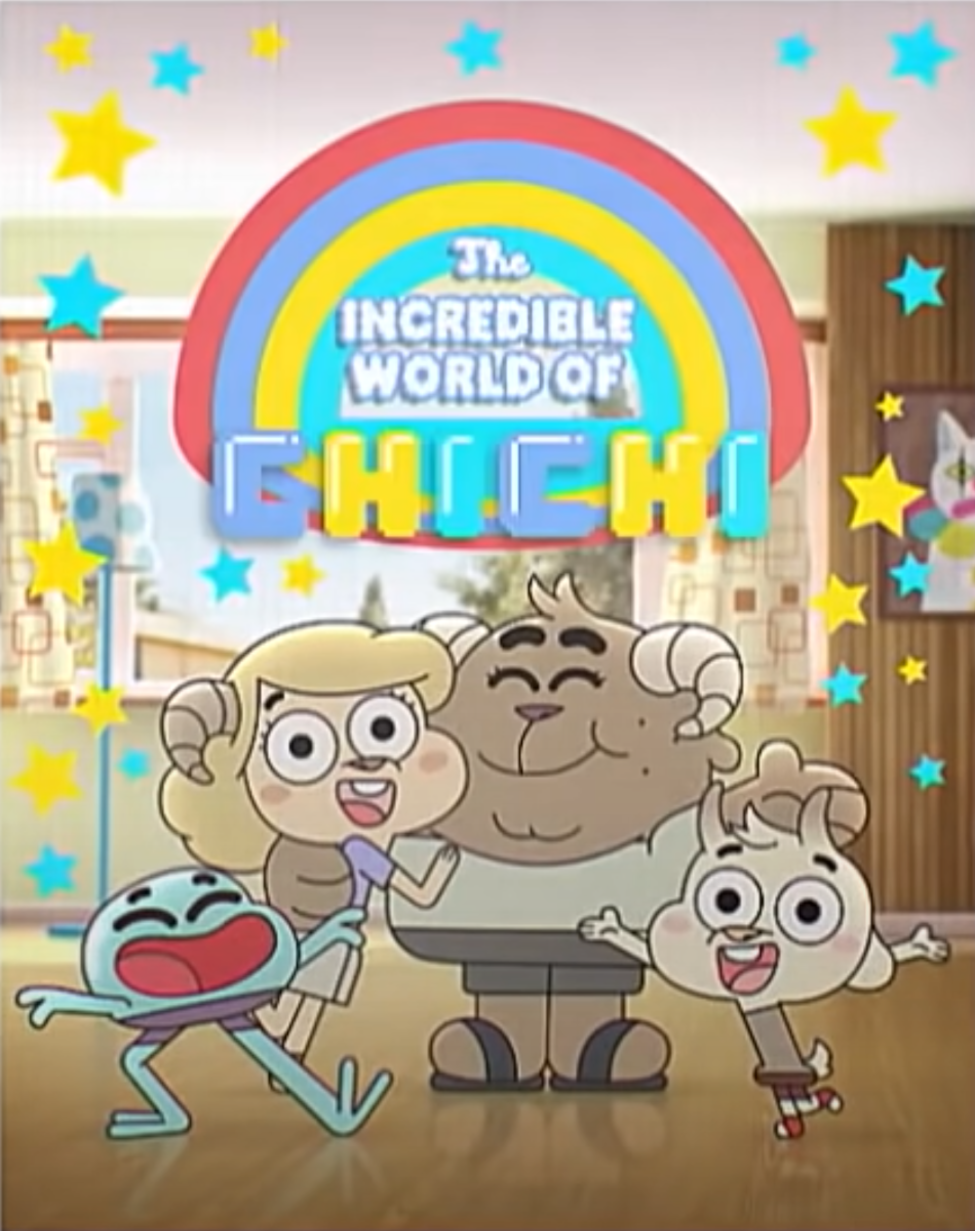
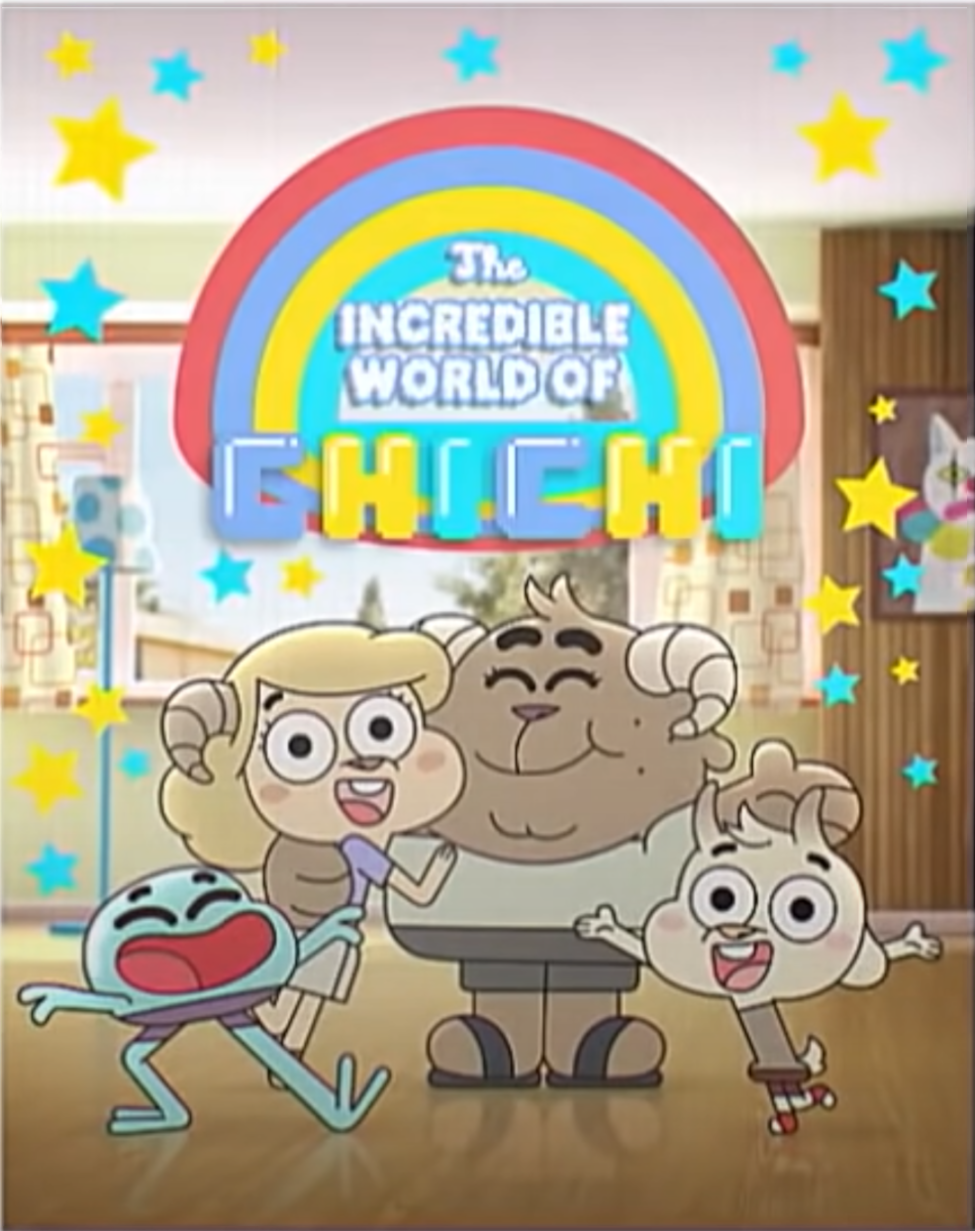
fix: Poster accuracy improved
The English poster was slightly zoomed in before. Now, it match more closer to the Chinese poster.

Brightness was tweaked for the Chinese poster to match English one.

Still not perfect though...

diff --git a/styles.css b/styles.css
@@ -196,14 +196,14 @@ body {
 
 /* Used to format logo and search box (sign in button is formatted using chinese-header1-logon) */
 .chinese-header1-title-text {
-	padding-left: 5.8vw;
+	padding-left: 6.2vw;
 	padding-right: 23vw;
 }
 
 /* Used to format logo and search box (sign in button is formatted using english-header1-logon) */
 .english-header1-title-text {
 	padding-left: 3vw;
-	padding-right: 18.1vw;
+	padding-right: 18.5vw;
 }
 
 /* Inline elements for search box and button */
@@ -366,8 +366,7 @@ body {
 /* Sets up nav bar for header2 (Chinese) */
 .chinese-header2-links {
 	margin-top: -0.45vw;
-	padding: 0.1vw;
-	padding-bottom: 0.05vw;
+	padding-bottom: 0.1vw;
 	font-size: 2vw;
 }
 
